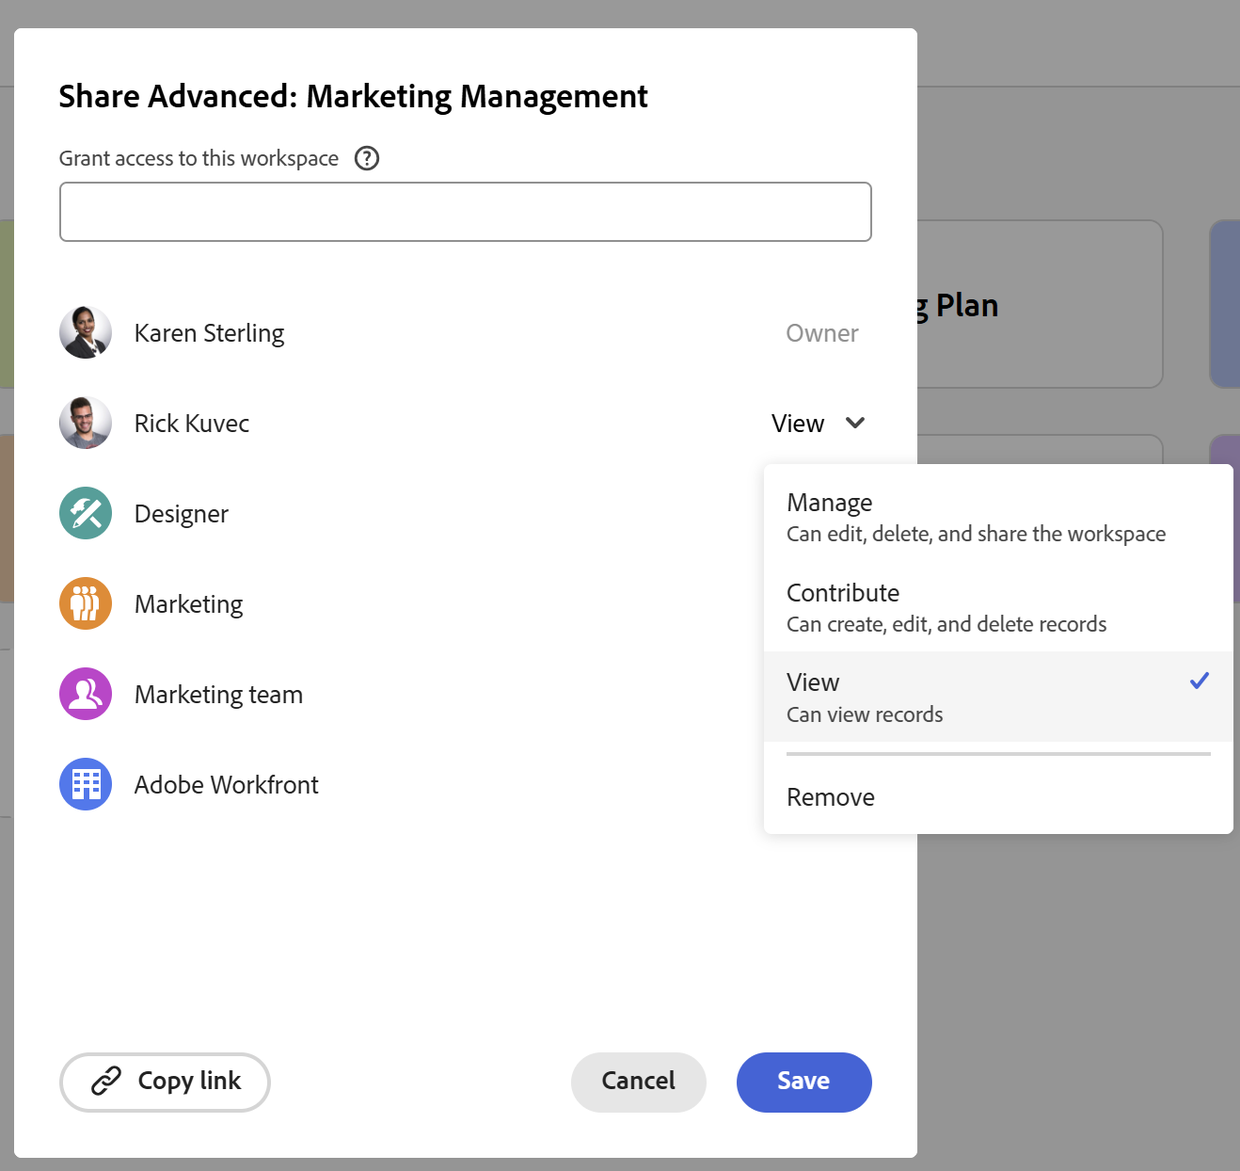
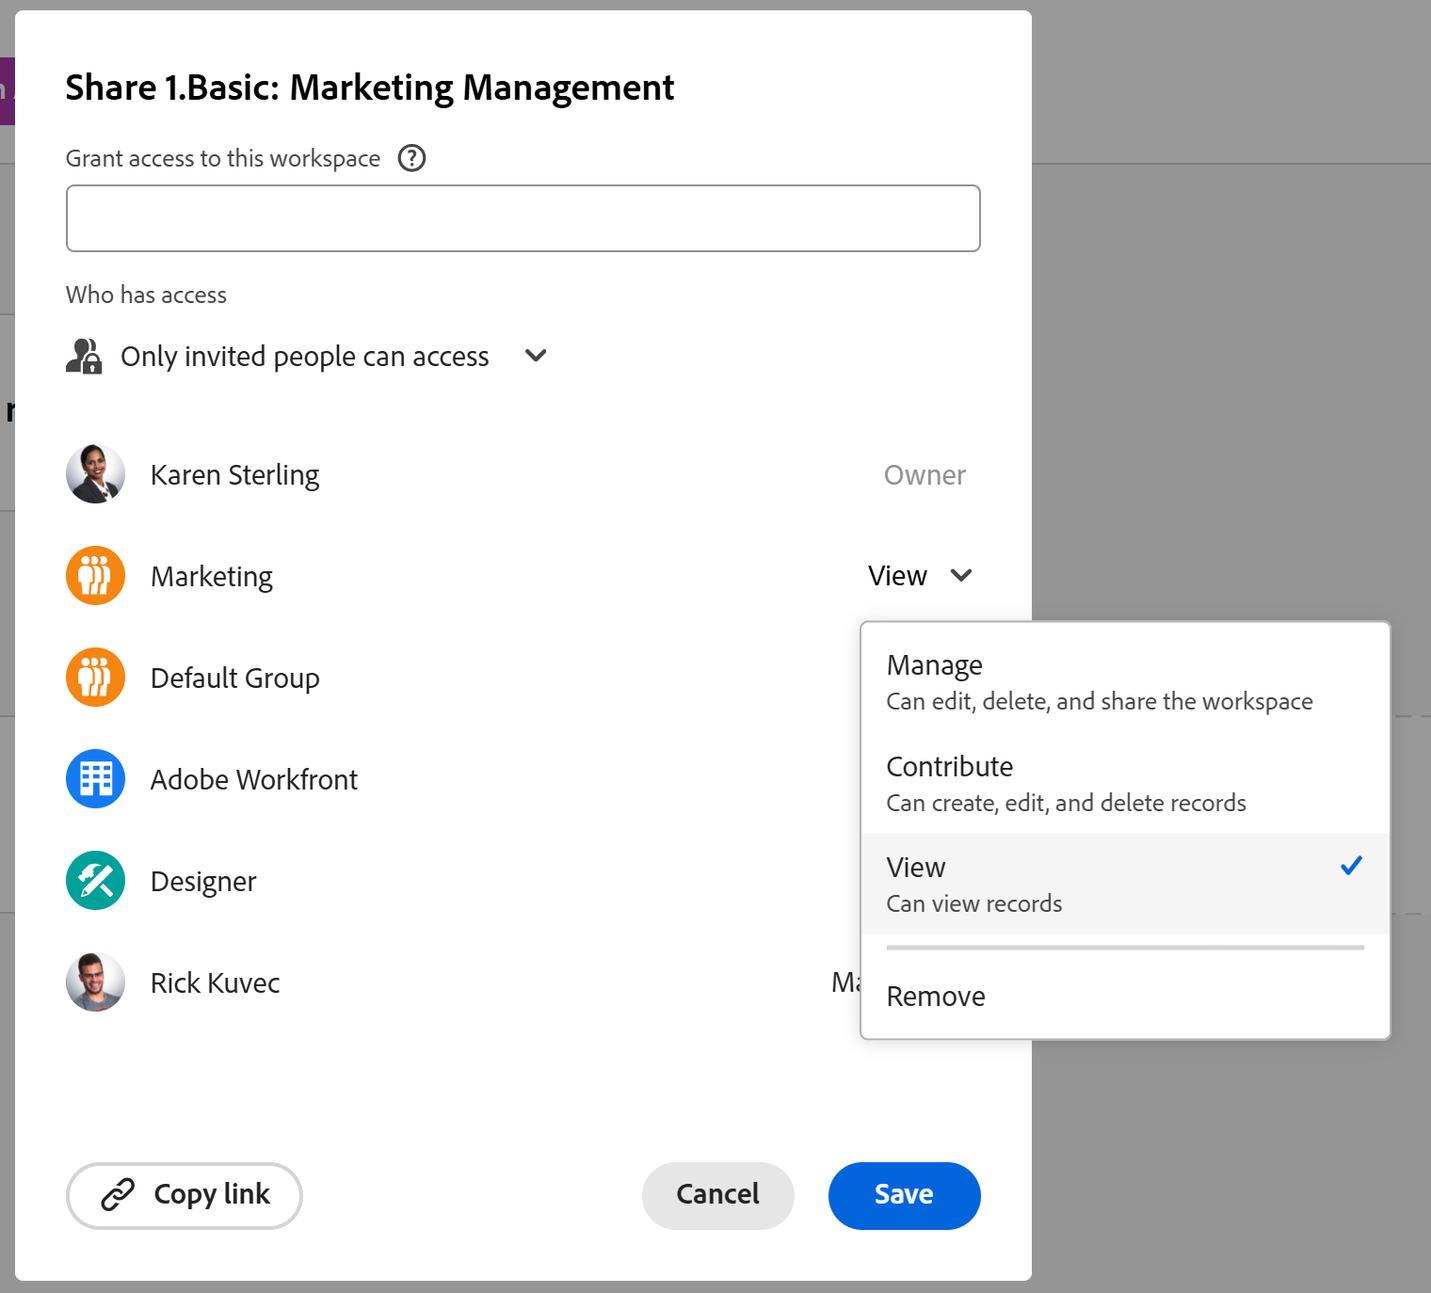
commit-aw-2-mar-pm

diff --git a/help/quicksilver/planning/views/manage-the-list-view.md b/help/quicksilver/planning/views/manage-the-list-view.md
@@ -16,9 +16,9 @@ exl-id: 1c7e6973-6e9e-4c93-9d3b-89ed90df9d14
 
 {{planning-important-intro}}
 
-You can display objects and their fields in a list view, when accessing them in the Connected records page of a record, in Adobe Workfront Planning. 
+You can display projects and their fields in a list view, when accessing them in the Connected records page of a record, in Adobe Workfront Planning. <!--change 'projects' to other objects when they become available and the location of the list view-->
 
-This article describes how you can create or edit a list view in the Connected records page of a record and how you can edit the objects in the view. 
+This article describes how you can create or edit a list view that displays projects in the Connected records page of a record and how you can edit the projects in the view. <!--change 'projects' to other objects when they become available and the location of the list view-->
 
 ## Access requirements
 
@@ -66,18 +66,19 @@ For more information about Workfront access requirements, see [Access requiremen
 
 ## Considerations about list views
 
-* You cannot view records in the record type pages in a list view. You can only display the following objects in a list view when you view them in the Connected records page of a record:
+* You cannot view all object types in the record type pages in a list view. 
+
+    You can only display the following objects in a list view when you view them in the Connected records page of a record:
 
     * Workfront projects
     
     For information about creating a connected records page, see [Add a Connected records page to a record](/help/quicksilver/planning/records/add-a-connected-records-page-to-a-record.md).
-* Before you can view a list view in a connected records page of a record you must connect Workfront projects with Planning record types. For information, see [Connect record types](/help/quicksilver/planning/architecture/connect-record-types.md). 
-* List views are similar to Enhanced lists. For more information, see [Use enhanced lists](/help/quicksilver/workfront-basics/navigate-workfront/use-lists/enhanced-lists.md). 
+* Before you can view a list view in a connected records page of a record you must connect Workfront projects with Planning record types. For information, see [Connect record types](/help/quicksilver/planning/architecture/connect-record-types.md).  
 
 
 ## Manage a list view {#manage-a-list-view}
 
-For more information about managing list views in Workfront, see [Use enhanced lists](/help/quicksilver/workfront-basics/navigate-workfront/use-lists/enhanced-lists.md). 
+List views are similar to enhanced lists. For more information, see [Use enhanced lists](/help/quicksilver/workfront-basics/navigate-workfront/use-lists/enhanced-lists.md).
 
 {{step1-to-planning}}
 
@@ -108,7 +109,7 @@ For more information about managing list views in Workfront, see [Use enhanced l
         >
         >* You cannot modify System Views. 
         >
-        >* <span class="preview">You can reset a view that was shared with you after you modified it to restore its original preferences, or you can copy it with your changes and share the copy. For more information, see [Use enhanced lists](/help/quicksilver/workfront-basics/navigate-workfront/use-lists/enhanced-lists.md). </span>
+        >* <span class="preview">You can reset a view that was shared with you to which you have only permissions to View, after you modified it to restore its original preferences, or you can copy it with your changes and share the copy. For more information, see [Use enhanced lists](/help/quicksilver/workfront-basics/navigate-workfront/use-lists/enhanced-lists.md). </span>
         
     1. Click the **Filter** icon ![Filter icon](assets/filter-icon.png) to add a filter to the view. Results are filtered immediately in the list. You cannot save and name filters. Filters are remembered when you access the page in future and they are part of shared views.
     1. Click the **Columns** icon ![Columns icon](assets/columns-icon.png) to select which columns to display or to hide in the view. 
@@ -121,24 +122,24 @@ For more information about managing list views in Workfront, see [Use enhanced l
     
         You can add only existing fields to the list view. 
         You cannot remove the primary field in the list view which displays in the first column. 
-
     
     1. <span class="preview">Click the **Format cells** icon ![Format cells icon](assets/format-cells-icon.png). The **Format** box opens.</span> <!--change the name of the box when they update it-->
         <span class="preview">Do the following: </span>
 
+        1. Click **Add condition**.
+        1. <span class="preview">In the **If** line, select  a field and choose a field value, then click **Add condition**. </span>
+
+            >[!TIP]
+            >
+            ><span class="preview">Only fields visible in the list view are available for conditional formatting.</span>
+
+        1. <span class="preview">(Optional) Click **Add condition** in the **If** line to add more conditions to the same rule.</span>
+
+            >[!TIP]
+            >
+            ><span class="preview">You can add up to 10 conditions in a conditioning rule and you can have up to 20 rules for a field.</span>
+
         <div class="preview">
-
-        1. In the **If** line, click **Add condition**, then select a field you want to format by and choose a field value. 
-
-            >[!TIP]
-            >
-            >Only fields visible in the list view are available for conditional formatting.
-
-        1. (Optional) Click **Add condition** in the **If** line to add more conditions to same rule.
-
-            >[!TIP]
-            >
-            >You can add up to 10 conditions in a conditioning rule and you can have up to 20 rules for a field.
 
         1. Click the **Or** connector between conditions to change to **And** and to indicate that multiple conditions must be met at the same time. **Or** is the default connector.  
         1. In the **Format** line, select a field to indicate which column will be formatted. <!--edit this area, if it changes names??-->

diff --git a/help/quicksilver/planning/access/share-workspaces.md b/help/quicksilver/planning/access/share-workspaces.md
@@ -145,31 +145,23 @@ To share a workspace with others:
 
     ![Share button on workspace top right](assets/share-button-on-workspace-top-right.png)
 
-   <!--only for March 4: * <span class="preview">(Conditional) Depending on your access level, the following scenarios exist: </span>-->
+1. <span class="preview">(Conditional) Depending on what access level you have, do one of the following: 
 
-1. <span class="preview">(Conditional) If you are a System Administrator, select from the following options:</span>
+   * If you are a System Administrator, select from the following options:</span>
 
-   <div class="preview">
+      * <span class="preview">**Only invited people can access**: You must select entities in the sharing box and choose their access to the workspace. This is the default selection. </span>
+      * <span class="preview">**Everyone in the system can view**: Everyone in the system with access to Planning can view the workspace in their **Workspaces** area in Planning.</span>
+       
+   * <span class="preview">(Conditional) If you are a workspace manager with a Standard license, you can see one of the following selections but you cannot change them:</span>
 
-   * **Only invited people can access**: You must select entities in the sharing box and choose their access to the workspace. This is the default selection. 
-   * **Everyone in the system can view**: Everyone in the system with access to Planning can view the workspace in their **Workspaces** area in Planning.
-         
-   </div>
-   
-   <!--only  for March 4:
+      * <span class="preview">**Only invited people can access**. This is the default setting.</span>
+      * <span class="preview">**Everyone in the system can view**</span>
 
-      * <span class="preview">If you are a workspace manager with a Standard license, you can see one of the following selections but you cannot change them:</span>
+      <span class="preview">You must ask a System Administrator to change a global permission for a workspace.</span>
 
-         <div class="preview">
-         
-         * **Only invited people can access**
-         * **Everyone in the system can view**
-         
-         </div>-->
+1. In the **Grant access to this workspace** field, start typing the name of a user, group, team, company, or job role then click it when it displays in the list. 
 
-1. In the **Grant access to this workspace** field, start typing the name of a user, group, team, company, or job role then click it when it displays in the list. <!--update screen shot at the release of system-wide permissions for workspaces-->
-
-   ![Sharing UI with groups](assets/sharing-ui-with-groups.png)
+   <span class="preview">![Sharing UI with groups](assets/sharing-ui-with-groups.png)</span>
 
    >[!NOTE]
    >

diff --git a/help/quicksilver/planning/general/trial-workfront-planning.md b/help/quicksilver/planning/general/trial-workfront-planning.md
@@ -18,7 +18,7 @@ Adobe Workfront Planning provides centralized visibility into your marketing lif
 
 >[!IMPORTANT]
 >
->* Adobe Workfront is offering a 60-day free trial of Adobe Workfront Planning. 
+>* Adobe Workfront is offering a 60-day free trial of Adobe Workfront Planning to all Adobe Workfront customers who are not also Workfront Planning customers. 
 >
 >* The trial is available between the following dates: March 2 - May 1, 2026. 
 >
@@ -63,14 +63,14 @@ Your company must meet the following requirements to be able to join the Workfro
 
 The following are important dates associated with the Adobe Workfront Planning free trial offering:
 
-* **January 26, 2026**: The Workfront Planning free trial banners were released to Workfront customers. The banners include the following: 
+* **January 26, 2026**: The Workfront Planning free trial banners were released to Workfront customers. The banners included the following: 
     * A link to this document. 
     * The trial agreement acceptance window. Only a Workfront administrator can accept the agreement. You can accept the trial agreement at any time starting with this date.
 * **March 2, 2026**: The Workfront Planning trial launched. 
 
     With the launch of the trial, the following items are added to your Workfront instance:
 
-    * The Workfront Planning banners continue to display for all users. 
+    * The Workfront Planning banners continue to display for all users. A link to this document is included in the banners.
     * The **Review trial agreement** preference is added to the **Setup** area.
     
     The following scenarios exist:
@@ -81,7 +81,8 @@ The following are important dates associated with the Adobe Workfront Planning f
     >
     >The Planning area displays in the Main Menu for all users in the system, regardless of their Workfront license type.
 
-    * If your  Workfront administrator has not accepted the agreement prior to this date, they must first accept it before you can have access to Workfront Planning. 
+    * If your Workfront administrator has not accepted the agreement prior to this date, the banners announcing the Planning trial programs display for all users, but Planning is not yet available in the Main Menu. Your System Administrator must first accept the agreement before you can have access to Workfront Planning. 
+
 * **April 1, 2026**: You can no longer enroll in the trial. 
 
     The following items are removed from your Workfront instance:

diff --git a/help/quicksilver/planning/records/connect-records.md b/help/quicksilver/planning/records/connect-records.md
@@ -10,9 +10,9 @@ exl-id: 17796cdc-6de8-4209-a5af-b255dc64d70a
 
 # Connect records 
 
-<!--<span class="preview">The highlighted information on this page refers to functionality not yet generally available. It is available only in the Preview environment for all customers. After the monthly releases to Production, the same features are also available in the Production environment for customers who enabled fast releases. </span>   
+<span class="preview">The highlighted information on this page refers to functionality not yet generally available. It is available only in the Preview environment for all customers. After the monthly releases to Production, the same features are also available in the Production environment for customers who enabled fast releases. </span>   
 
-<span class="preview">For information about fast releases, see [Enable or disable fast releases for your organization](/help/quicksilver/administration-and-setup/set-up-workfront/configure-system-defaults/enable-fast-release-process.md). </span>-->
+<span class="preview">For information about fast releases, see [Enable or disable fast releases for your organization](/help/quicksilver/administration-and-setup/set-up-workfront/configure-system-defaults/enable-fast-release-process.md). </span>
 
 
 {{planning-important-intro}}
@@ -266,7 +266,7 @@ You can connect records from Workfront Planning in the following areas of a Plan
       >* We use "linked fields" and "lookup fields" interchangeably. 
       >
       >* When you choose to connect multiple records when you connected the record types, the field values from the multiple objects are either displayed separated by commas or are aggregated according to the aggregator you chose when connecting the record types.
-      >* You cannot add Workfront typeahead fields (including fields like Project Owner, or Project Sponsor) as lookup fields.
+      >* You cannot add Workfront typeahead fields as lookup fields. In the Production environment, this includes people-type fields like Project Owner, or Project Sponsor. <span class="preview">You can add people-type fields as lookup fields in the Preview environment.</span>
       >
       >* Workfront objects' date field information displays in 24 hour format in Workfront Planning, regardless of how it displays in Workfront. 
       >

diff --git a/help/quicksilver/planning/general/planning-overview.md b/help/quicksilver/planning/general/planning-overview.md
@@ -13,9 +13,9 @@ exl-id: b1d6e0b3-e6d4-46d1-a6a2-4b8b73f7d3f7
 
 <!--do not use the snippet for IMPORTANT as it links to this article-->
 
-<!--<span class="preview">The highlighted information on this page refers to functionality not yet generally available. It is available only in the Preview environment for all customers. After the monthly releases to Production, the same features are also available in the Production environment for customers who enabled fast releases. </span>   
+<span class="preview">The highlighted information on this page refers to functionality not yet generally available. It is available only in the Preview environment for all customers. After the monthly releases to Production, the same features are also available in the Production environment for customers who enabled fast releases. </span>   
 
-<span class="preview">For information about fast releases, see [Enable or disable fast releases for your organization](/help/quicksilver/administration-and-setup/set-up-workfront/configure-system-defaults/enable-fast-release-process.md). </span> -->
+<span class="preview">For information about fast releases, see [Enable or disable fast releases for your organization](/help/quicksilver/administration-and-setup/set-up-workfront/configure-system-defaults/enable-fast-release-process.md). </span>
 
 >[!IMPORTANT]
 >
@@ -286,12 +286,12 @@ The following are the main Workfront Planning objects and concepts:
 
     >[!TIP]
     >
-    > You cannot add the following field types as lookup fields from the connected record or object types:
-    >
-    >* People
-    >* Created by
-    >* Last modified by
-    >* Workfront typeahead fields (including fields like Project Owner, or Project Sponsor)
+    >* You cannot add the following field types as lookup fields from the connected record or object types:
+    >   * Created by
+    >   * Last modified by
+    >   * Workfront typeahead fields (including fields like Project Owner, or Project Sponsor)
+    >* You cannot add the following field types as lookup fields from the connected record or object type in Production, <span class="preview">but you can add them in the Preview environment:</span>
+    >   * People
 
     For information about connecting record types, records, and creating linked fields, see the following articles:
 

diff --git a/help/quicksilver/planning/views/manage-the-timeline-view.md b/help/quicksilver/planning/views/manage-the-timeline-view.md
@@ -9,9 +9,9 @@ exl-id: f348af7f-5bb9-4d88-9bcb-3bef7e8892dd
 ---
 # Manage the timeline view
 
-<!--<span class="preview">The highlighted information on this page refers to functionality not yet generally available. It is available only in the Preview environment for all customers. After the monthly releases to Production, the same features are also available in the Production environment for customers who enabled fast releases. </span>   
+<span class="preview">The highlighted information on this page refers to functionality not yet generally available. It is available only in the Preview environment for all customers. After the monthly releases to Production, the same features are also available in the Production environment for customers who enabled fast releases. </span>   
 
-<span class="preview">For information about fast releases, see [Enable or disable fast releases for your organization](/help/quicksilver/administration-and-setup/set-up-workfront/configure-system-defaults/enable-fast-release-process.md). </span>-->
+<span class="preview">For information about fast releases, see [Enable or disable fast releases for your organization](/help/quicksilver/administration-and-setup/set-up-workfront/configure-system-defaults/enable-fast-release-process.md). </span>
 
 
 {{planning-important-intro}}
@@ -400,7 +400,7 @@ To add a grouping in the timeline view:
 1. Click one of the suggested fields, or click **Choose a different field**, and search for a different field, then click it when it displays in the list. 
 
     The grouping is applied automatically to the timeline and records display inside the grouping box. 
-    
+1. <span class="preview">(Optional) Click the **A -> Z** or **Z -> A** drop-down menu next to the name of the selected field to select an ascending or descending sorting order for the grouping. The groupings display in the alphabetical order you selected in the timeline view. </span>
 1. (Optional) Repeat the above steps to add up to 3 groupings.
 
     The number of fields selected for the grouping displays next to the Grouping icon.

diff --git a/help/quicksilver/workfront-basics/navigate-workfront/use-lists/enhanced-lists.md b/help/quicksilver/workfront-basics/navigate-workfront/use-lists/enhanced-lists.md
@@ -338,13 +338,13 @@ To share a view:
 >
 >Not all enhanced lists have all the elements described in this section.
 
-When a view is shared with you that you do not have permission to edit, you can copy the view and save it with a new name. You must first make changes to the view before you can copy it.
+When a view is shared with you to which you do not have permission to edit, you can copy the view and save it with a new name. You must first make changes to the view before you can copy it.
 
-1. In the Views dropdown, hover over the view in **Shared Views** that you want to copy, click the **More** menu ![More menu](assets/more-icon.png), and click **Copy with preferences**.
+1. In the Views dropdown, hover over the view in **Shared Views** that you modified the settings of and which want to copy, click the **More** menu ![More menu](assets/more-icon.png), and click **Copy with preferences**.
 
-   A new view is created automatically. It uses the original view name with (copy) at the end, and it appears in the **My Views** section of views.
+   A new view is created automatically. The name of the copied view follows the following pattern: `Original view name (copy)`and it displays in the **My Views** section of views.
    
-   You are the owner of this view, and you can rename, edit, share, or delete it. If the owner of the original view removes your shared access to that view, you still have access to this view that you created.
+   You are the owner of this view, and you can rename, edit, share, or delete it. If the owner of the original view removes your shared access to that view, you still have access to the view that you created by copying the shared original.
 
    >[!NOTE]
    >

diff --git a/help/quicksilver/planning/general/planning-ai-designer.md b/help/quicksilver/planning/general/planning-ai-designer.md
@@ -220,13 +220,10 @@ You can create or update objects in Workfront Planning either by using the Plann
 1. (Optional) Click the **Show or hide preview screen** icon ![Hide or show preview screen icon](assets/hide-show-preview-screen-in-planning-designer.png) to open or close the preview screen on the right.
 1. Click the **Open workspace in new tab icon** ![Open workspace in new tab icon](assets/open-workspace-on-new-tab-icon.png) to open the workspace you're updating in a new tab. 
 1. Click the **Close** icon **X** to close the Planning Designer and open the Workspaces area. 
-1. Open the  workspace you edited using the Planning Designer and make further changes to its objects.
-
-<!-- for March 2 -- replace the last step with this: 
 1. (Optional) To edit a workspace, do one of the following:
 
     * Open the workspace and manually make changes to it. For information, see [Edit workspaces](/help/quicksilver/planning/architecture/edit-workspaces.md). 
-    * Click **Edit with AI**. This opens the Planning Designer. Repeat the steps above to use AI and make further changes to the workspace.-->
+    * Click **Edit with AI**. This opens the Planning Designer. Repeat the steps above to use AI and make further changes to the workspace.
 
 ## Turn off the Planing Designer for your organization
 

diff --git a/help/quicksilver/planning/views/manage-the-table-view.md b/help/quicksilver/planning/views/manage-the-table-view.md
@@ -498,8 +498,6 @@ To add a grouping:
 
     ![Grouping applied in table view](assets/grouping-applied-in-table-view.png)
 
-1. <span class="preview">(Optional) Choose A-Z or Z-A from the sorting drop-down menu to the right of a selected field. This sorts the groupings in the timeline, accordingly.</span>  
-
 1. (Optional) Inside the **Group records by** box, click the **x** icon to the right of a field selected for the grouping to remove the grouping
 
     Or
@@ -590,7 +588,7 @@ When you display the table view, you can also view which field another user is e
 
     ![Real-time indicator table field and avatar connection](assets/real-time-indicator-table-field-and-avatar-connection.png)
 
-<!--maybe include a screen shot after release if they update the UI text in this list of users-->
+    <!--maybe include a screen shot after release if they update the UI text in this list of users-->
 
 1. <span class="preview">(Optional) Click the triangle in the upper-right corner of the cell that contains the field edited by others. A list of users currently editing the field displays.</span> 
 

diff --git a/help/quicksilver/planning/records/configure-automations-to-create-records.md b/help/quicksilver/planning/records/configure-automations-to-create-records.md
@@ -155,7 +155,7 @@ You must configure an automation for a record type in Workfront Planning before 
       * Button click 
       * <span class="preview">Field value change</span>
 
-   1. (Conditional) If you selected **Button click**, go to the step below that describes the **Actions** area. 
+   1. (Conditional) If you selected **Button click**, go to step 9 below that describes the **Actions** area. <!--ensure this number stays accurate-->
 
    1. <span class="preview">(Conditional) If you selected **Field value change**, do the following in the **Settings** section: </span>
 
